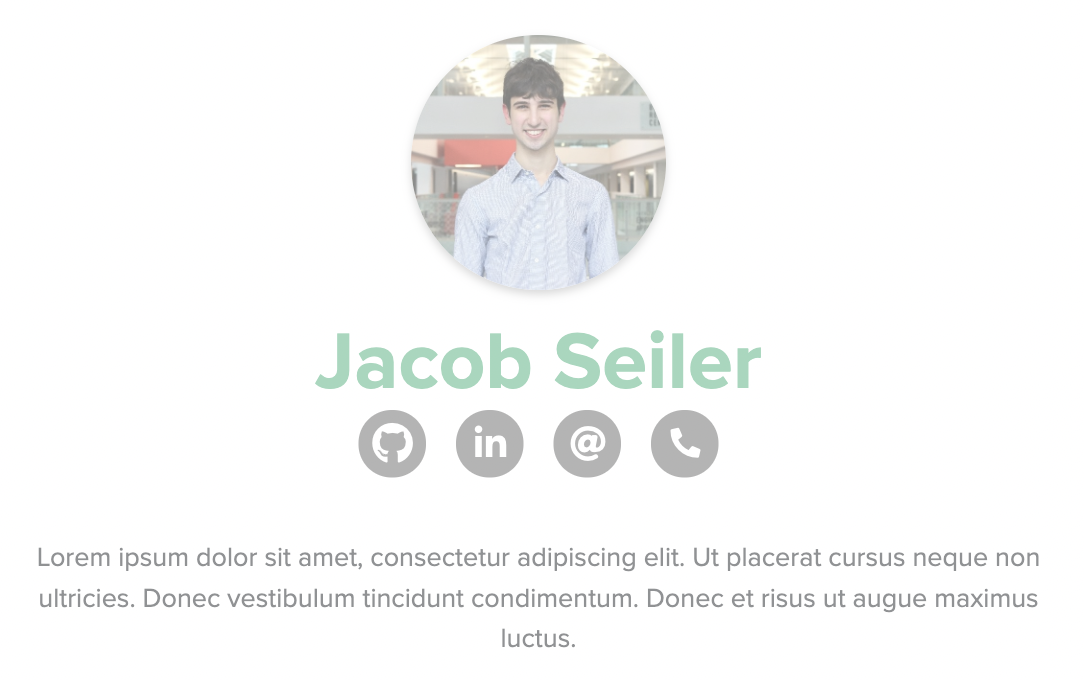
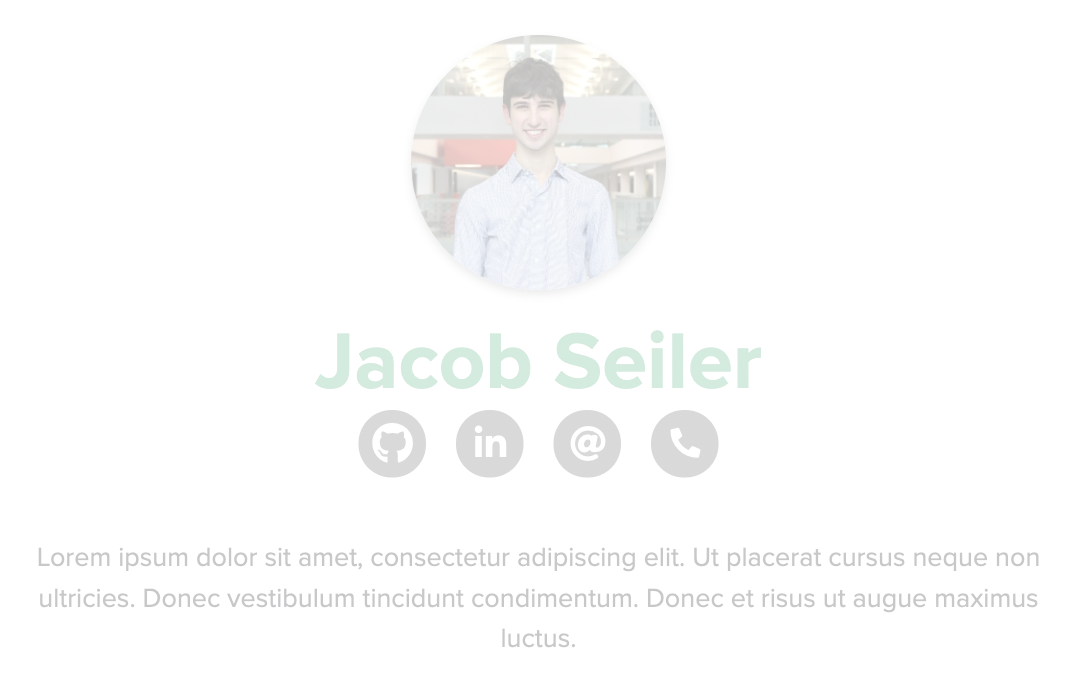
Fixed sizing for very small displays

diff --git a/css/main.css b/css/main.css
@@ -32,6 +32,13 @@ main {
           box-shadow: 0px 3px 6px 0px rgba(0, 0, 0, 0.3);
 }
 
+@media (max-width: 430px) {
+  .headshot {
+    width: 140px;
+    height: 140px;
+  }
+}
+
 .title {
   color: #22b17a;
   font-weight: 700;
@@ -39,6 +46,12 @@ main {
   font-size: 54px;
   margin-top: 16px;
   margin-bottom: 0px;
+}
+
+@media (max-width: 430px) {
+  .title {
+    font-size: 42px;
+  }
 }
 
 .social-icons {
@@ -62,6 +75,14 @@ main {
   border-radius: 50px;
 }
 
+@media (max-width: 430px) {
+  .social-icons .social-icon {
+    width: 35px;
+    height: 35px;
+    margin: 0px 5px;
+  }
+}
+
 .social-icons .social-icon.icon-github:hover {
   background: #24292e;
 }
@@ -83,9 +104,23 @@ main {
           transform: translateY(-75%) scale(1.75);
 }
 
+@media (max-width: 430px) {
+  .social-icons .social-icon.icon-github span {
+    -webkit-transform: translateY(-75%) scale(1.5);
+            transform: translateY(-75%) scale(1.5);
+  }
+}
+
 .social-icons .social-icon.icon-phone span {
   -webkit-transform: translateY(-75%) scale(1.25);
           transform: translateY(-75%) scale(1.25);
+}
+
+@media (max-width: 430px) {
+  .social-icons .social-icon.icon-phone span {
+    -webkit-transform: translateY(-75%) scale(1);
+            transform: translateY(-75%) scale(1);
+  }
 }
 
 .social-icons .social-icon span {
@@ -93,6 +128,13 @@ main {
           transform: translateY(-75%) scale(1.5);
   position: relative;
   top: 50%;
+}
+
+@media (max-width: 430px) {
+  .social-icons .social-icon span {
+    -webkit-transform: translateY(-75%) scale(1.25);
+            transform: translateY(-75%) scale(1.25);
+  }
 }
 
 .info {
@@ -132,6 +174,12 @@ main {
   font-size: 18px;
 }
 
+@media (max-width: 430px) {
+  .bio {
+    font-size: 16px;
+  }
+}
+
 .cards {
   margin-top: 60px;
 }
@@ -160,12 +208,24 @@ main {
   line-height: 1;
 }
 
+@media (max-width: 430px) {
+  .cards .card .card-title {
+    font-size: 20px;
+  }
+}
+
 .cards .card .card-subtitle {
   font-weight: 400;
   font-style: italic;
   font-size: 16px;
   color: #f3f3f3;
   margin-top: 0;
+}
+
+@media (max-width: 430px) {
+  .cards .card .card-subtitle {
+    font-size: 14px;
+  }
 }
 
 .cards .card .card-description {
@@ -177,6 +237,12 @@ main {
   line-height: 1.25;
   margin-top: 16px;
   margin-bottom: 0;
+}
+
+@media (max-width: 430px) {
+  .cards .card .card-description {
+    font-size: 14px;
+  }
 }
 
 .cards .card .card-links {
@@ -208,7 +274,7 @@ main {
   .cards .card .card-links .card-link img {
     height: 60px;
     margin-top: 5px;
-    margin-right: 5px;
+    margin-right: 10px;
     margin-left: 0px;
   }
 }
@@ -254,8 +320,15 @@ main {
 .end {
   font-weight: 400;
   font-style: normal;
+  font-size: 18px;
   padding-top: 500px;
   padding-bottom: 30px;
+}
+
+@media (max-width: 430px) {
+  .end {
+    font-size: 16px;
+  }
 }
 
 .end p {

diff --git a/css/main.scss b/css/main.scss
@@ -41,6 +41,12 @@ main {
 	object-fit: cover;
 	width: 170px;
 	height: 170px;
+
+	@include tiny() {
+		width: 140px;
+		height: 140px;
+	}
+
 	border-radius: 50%;
 	margin-top: 30px;
 	@include shadow;
@@ -55,6 +61,10 @@ main {
 
 	margin-top: 16px;
 	margin-bottom: 0px;
+
+	@include tiny() {
+		font-size: 42px;
+	}
 }
 
 .social-icons {
@@ -68,6 +78,12 @@ main {
 		height: 45px;
 		padding: 0;
 		margin: 0px 10px;
+
+		@include tiny() {
+			width: 35px;
+			height: 35px;
+			margin: 0px 5px;
+		}
 
 		background: $color-secondary;
 		color: $color-light;
@@ -91,12 +107,20 @@ main {
 		&.icon-github {
 			span {
 				transform: translateY(-75%) scale(1.75);
+
+				@include tiny() {
+					transform: translateY(-75%) scale(1.5);
+				}
 			}
 		}
 
 		&.icon-phone {
 			span {
 				transform: translateY(-75%) scale(1.25);
+
+				@include tiny() {
+					transform: translateY(-75%) scale(1);
+				}
 			}
 		}
 
@@ -104,6 +128,10 @@ main {
 			transform: translateY(-75%) scale(1.5);
 			position: relative;
 			top: 50%;
+
+			@include tiny() {
+				transform: translateY(-75%) scale(1.25);
+			}
 		}
 
 		border-radius: 50px;
@@ -142,6 +170,10 @@ main {
 	font-weight: 400;
 	font-style: normal;
 	font-size: 18px;
+
+	@include tiny() {
+		font-size: 16px;
+	}
 }
 
 .cards {
@@ -163,6 +195,10 @@ main {
 			color: $color-light;
 			margin-bottom: 0;
 			line-height: 1;
+
+			@include tiny() {
+				font-size: 20px;
+			}
 		}
 
 		.card-subtitle {
@@ -171,6 +207,10 @@ main {
 			font-size: 16px;
 			color: $color-light-secondary;
 			margin-top: 0;
+
+			@include tiny() {
+				font-size: 14px;
+			}
 		}
 
 		.card-description {
@@ -182,6 +222,10 @@ main {
 			line-height: 1.25;
 			margin-top: 16px;
 			margin-bottom: 0;
+
+			@include tiny() {
+				font-size: 14px;
+			}
 		}
 
 		.card-links {
@@ -207,7 +251,7 @@ main {
 					@include tiny() {
 						height: 60px;
 						margin-top: 5px;
-						margin-right: 5px;
+						margin-right: 10px;
 						margin-left: 0px;
 					}
 				}
@@ -257,6 +301,11 @@ main {
 .end {
 	font-weight: 400;
 	font-style: normal;
+	font-size: 18px;
+
+	@include tiny() {
+		font-size: 16px;
+	}
 
 	padding-top: 500px;
 	padding-bottom: 30px;

diff --git a/README.md b/README.md
@@ -7,7 +7,7 @@ Space for displaying projects I've worked on, social media, and contact informat
 -   [ ] Add bio
 -   [x] Add mail / phone links
 -   [ ] Add tooltip for copy to show item was coppied
--   [ ] Fix formatting for very small displays
+-   [x] Fix formatting for very small displays
 -   [x] Cleanup formatting for larger displays
 -   [x] Add project cards
 -   [ ] Create production build of code
